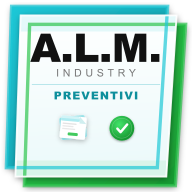
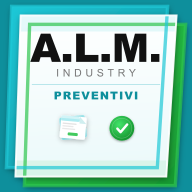
feat: fix icona PWA Android + offline data sync
- Aggiunto sfondo solido (#0E8F9C) all'icona SVG per compatibilità con
  Android adaptive icon (eliminata trasparenza che causava icona generica)
- Script scripts/generate-icons.mjs per rigenerare icon-192.png e icon-512.png
- Manifest aggiornato con entry 'any' per icon-512.png (era solo 'maskable')
- Dexie IndexedDB (lib/db.ts): tabelle clienti, listiniData, pendingPreventivi
- DataSync: sincronizza clienti/listini in IDB all'avvio; flush pending al ritorno online
- OfflineIndicator: badge Offline/Sincronizzazione in top bar mobile
- WizardPreventivo: salva in IDB se offline invece di fallire
- TabellaPreventivi: mostra preventivi pending con badge 'In attesa di sync'

Changed region(s): [[0.0, 0.0, 1.0, 1.0]]

diff --git a/components/preventivi/TabellaPreventivi.tsx b/components/preventivi/TabellaPreventivi.tsx
@@ -4,9 +4,11 @@ import { useState, useMemo } from 'react'
 import { useRouter } from 'next/navigation'
 import Link from 'next/link'
 import { toast } from 'sonner'
-import { Plus, Search, Trash2, Eye } from 'lucide-react'
+import { Plus, Search, Trash2, Eye, Clock } from 'lucide-react'
+import { useLiveQuery } from 'dexie-react-hooks'
 import { deletePreventivo } from '@/actions/preventivi'
 import { formatEuro } from '@/lib/pricing'
+import { db } from '@/lib/db'
 import { Button } from '@/components/ui/button'
 import { Input } from '@/components/ui/input'
 import { Badge } from '@/components/ui/badge'
@@ -57,6 +59,8 @@ export default function TabellaPreventivi({ preventivi }: Props) {
   const [deletingId, setDeletingId] = useState<string | null>(null)
   const [deleting, setDeleting] = useState(false)
 
+  const pendingPreventivi = useLiveQuery(() => db.pendingPreventivi.toArray(), []) ?? []
+
   const filtered = useMemo(() => {
     const q = search.toLowerCase().trim()
     if (!q) return preventivi
@@ -105,7 +109,7 @@ export default function TabellaPreventivi({ preventivi }: Props) {
       </div>
 
       {/* Empty state */}
-      {filtered.length === 0 && (
+      {filtered.length === 0 && pendingPreventivi.length === 0 && (
         <div className="text-center py-16 text-gray-400">
           {preventivi.length === 0 ? (
             <>
@@ -125,7 +129,7 @@ export default function TabellaPreventivi({ preventivi }: Props) {
       )}
 
       {/* Table */}
-      {filtered.length > 0 && (
+      {(filtered.length > 0 || pendingPreventivi.length > 0) && (
         <div className="rounded-md border bg-white overflow-x-auto">
           <Table>
             <TableHeader>
@@ -140,6 +144,43 @@ export default function TabellaPreventivi({ preventivi }: Props) {
               </TableRow>
             </TableHeader>
             <TableBody>
+              {/* Preventivi in attesa di sync (offline) */}
+              {pendingPreventivi.map((p) => {
+                const s = p.input.clienteSnapshot
+                const nome = [s.cognome, s.nome].filter(Boolean).join(' ') || s.telefono || s.email || '—'
+                const totPezzi = p.input.articoli.reduce((sum, a) => sum + a.quantita, 0)
+                return (
+                  <TableRow key={`pending-${p.tempId}`} className="bg-amber-50">
+                    <TableCell className="font-mono text-sm text-gray-500">
+                      {p.input.numero || '—'}
+                    </TableCell>
+                    <TableCell>
+                      <div>
+                        <p className="font-medium text-sm">{nome}</p>
+                        {s.cantiere && (
+                          <p className="text-xs text-gray-400">{s.cantiere}</p>
+                        )}
+                      </div>
+                    </TableCell>
+                    <TableCell className="text-center text-sm text-gray-600">
+                      {totPezzi}
+                    </TableCell>
+                    <TableCell className="text-right font-semibold text-sm text-gray-400">
+                      —
+                    </TableCell>
+                    <TableCell className="text-center">
+                      <Badge className="text-xs bg-amber-100 text-amber-700 border border-amber-200 hover:bg-amber-100">
+                        <Clock className="h-3 w-3 mr-1" />
+                        In attesa di sync
+                      </Badge>
+                    </TableCell>
+                    <TableCell className="text-right text-xs text-gray-400 whitespace-nowrap">
+                      {new Date(p.createdAt).toLocaleDateString('it-IT')}
+                    </TableCell>
+                    <TableCell />
+                  </TableRow>
+                )
+              })}
               {filtered.map((p) => {
                 const cfg = STATO_CONFIG[p.stato]
                 return (

diff --git a/components/pwa/DataSync.tsx b/components/pwa/DataSync.tsx
@@ -1,0 +1,59 @@
+'use client'
+
+import { useEffect } from 'react'
+import { toast } from 'sonner'
+import { db } from '@/lib/db'
+import { getClienti } from '@/actions/clienti'
+import { getCategorie } from '@/actions/listini'
+import { createPreventivo } from '@/actions/preventivi'
+
+export default function DataSync() {
+  // Sync clienti e listini all'avvio (se online)
+  useEffect(() => {
+    if (!navigator.onLine) return
+
+    async function syncData() {
+      try {
+        const [clienti, categorie] = await Promise.all([getClienti(), getCategorie()])
+        await db.clienti.bulkPut(clienti)
+        await db.listiniData.bulkPut(categorie)
+      } catch {
+        // Silenzioso: il sync dei dati di riferimento è best-effort
+      }
+    }
+
+    syncData()
+  }, [])
+
+  // Svuota la coda dei preventivi pending al ritorno online
+  useEffect(() => {
+    async function flushPending() {
+      const pending = await db.pendingPreventivi.toArray()
+      if (pending.length === 0) return
+
+      let synced = 0
+      for (const item of pending) {
+        try {
+          await createPreventivo(item.input)
+          await db.pendingPreventivi.delete(item.tempId!)
+          synced++
+        } catch {
+          // Lascia in coda, riproverà al prossimo evento online
+        }
+      }
+
+      if (synced > 0) {
+        toast.success(
+          synced === 1
+            ? '1 preventivo sincronizzato'
+            : `${synced} preventivi sincronizzati`
+        )
+      }
+    }
+
+    window.addEventListener('online', flushPending)
+    return () => window.removeEventListener('online', flushPending)
+  }, [])
+
+  return null
+}

diff --git a/components/preventivi/WizardPreventivo.tsx b/components/preventivi/WizardPreventivo.tsx
@@ -5,6 +5,8 @@ import { useRouter } from 'next/navigation'
 import { toast } from 'sonner'
 import { ChevronLeft, ChevronRight, Save, Loader2 } from 'lucide-react'
 import { createPreventivo, updatePreventivo } from '@/actions/preventivi'
+import { db } from '@/lib/db'
+import type { PendingPreventivo } from '@/lib/db'
 import {
   calcolaSubtotale,
   calcolaSpeseTrasportoPezzi,
@@ -155,15 +157,26 @@ export default function WizardPreventivo({ clienti, listini, aliquote, preventiv
           note,
         }
 
+        // Modalità modifica: richiede connessione
         if (preventivo) {
           await updatePreventivo(preventivo.id, input)
           toast.success('Preventivo aggiornato')
           router.push(`/preventivi/${preventivo.id}`)
-        } else {
-          const { id } = await createPreventivo(input)
-          toast.success('Preventivo creato')
-          router.push(`/preventivi/${id}`)
+          return
         }
+
+        // Nuovo preventivo: salva localmente se offline
+        if (!navigator.onLine) {
+          const pending: PendingPreventivo = { input, createdAt: new Date().toISOString() }
+          await db.pendingPreventivi.add(pending)
+          toast.success('Preventivo salvato localmente — verrà sincronizzato quando torni online')
+          router.push('/preventivi')
+          return
+        }
+
+        const { id } = await createPreventivo(input)
+        toast.success('Preventivo creato')
+        router.push(`/preventivi/${id}`)
       } catch (e: unknown) {
         toast.error(e instanceof Error ? e.message : 'Errore durante il salvataggio')
       }

diff --git a/components/pwa/OfflineIndicator.tsx b/components/pwa/OfflineIndicator.tsx
@@ -1,0 +1,30 @@
+'use client'
+
+import { useLiveQuery } from 'dexie-react-hooks'
+import { useOnlineStatus } from '@/hooks/useOnlineStatus'
+import { db } from '@/lib/db'
+
+export default function OfflineIndicator() {
+  const { isOnline } = useOnlineStatus()
+  const pendingCount = useLiveQuery(() => db.pendingPreventivi.count(), []) ?? 0
+
+  if (!isOnline) {
+    return (
+      <span className="inline-flex items-center gap-1 px-2 py-0.5 rounded-full text-xs font-semibold bg-red-100 text-red-700 border border-red-200">
+        <span className="h-1.5 w-1.5 rounded-full bg-red-500" />
+        Offline
+      </span>
+    )
+  }
+
+  if (pendingCount > 0) {
+    return (
+      <span className="inline-flex items-center gap-1 px-2 py-0.5 rounded-full text-xs font-semibold bg-amber-100 text-amber-700 border border-amber-200">
+        <span className="h-1.5 w-1.5 rounded-full bg-amber-500 animate-pulse" />
+        Sincronizzazione…
+      </span>
+    )
+  }
+
+  return null
+}

diff --git a/components/layout/LayoutShell.tsx b/components/layout/LayoutShell.tsx
@@ -4,6 +4,8 @@ import { useState, useEffect } from 'react'
 import { usePathname } from 'next/navigation'
 import { Menu } from 'lucide-react'
 import Sidebar from './Sidebar'
+import DataSync from '@/components/pwa/DataSync'
+import OfflineIndicator from '@/components/pwa/OfflineIndicator'
 
 interface Props {
   children: React.ReactNode
@@ -52,10 +54,12 @@ export default function LayoutShell({ children, logoUrl, denominazione }: Props)
           >
             <Menu className="h-5 w-5" />
           </button>
-          <span className="text-sm font-semibold text-gray-900 truncate">
+          <span className="text-sm font-semibold text-gray-900 truncate flex-1">
             {denominazione || 'A.L.M. Infissi'}
           </span>
+          <OfflineIndicator />
         </header>
+        <DataSync />
 
         <main className="flex-1 overflow-auto">
           <div className="p-4 lg:p-6">

diff --git a/lib/db.ts b/lib/db.ts
@@ -1,0 +1,27 @@
+import Dexie, { type EntityTable } from 'dexie'
+import type { Cliente } from '@/types/cliente'
+import type { CategoriaConListini } from '@/types/listino'
+import type { PreventivoInput } from '@/types/preventivo'
+
+export interface PendingPreventivo {
+  tempId?: number
+  input: PreventivoInput
+  createdAt: string
+}
+
+class GestionaleDB extends Dexie {
+  clienti!: EntityTable<Cliente, 'id'>
+  listiniData!: EntityTable<CategoriaConListini, 'id'>
+  pendingPreventivi!: EntityTable<PendingPreventivo, 'tempId'>
+
+  constructor() {
+    super('gestionale-infissi')
+    this.version(1).stores({
+      clienti: 'id, cognome, nome',
+      listiniData: 'id, nome',
+      pendingPreventivi: '++tempId, createdAt',
+    })
+  }
+}
+
+export const db = new GestionaleDB()

diff --git a/hooks/useOnlineStatus.ts b/hooks/useOnlineStatus.ts
@@ -1,0 +1,24 @@
+'use client'
+
+import { useState, useEffect } from 'react'
+
+export function useOnlineStatus(): { isOnline: boolean } {
+  const [isOnline, setIsOnline] = useState(
+    typeof navigator !== 'undefined' ? navigator.onLine : true
+  )
+
+  useEffect(() => {
+    const onOnline = () => setIsOnline(true)
+    const onOffline = () => setIsOnline(false)
+
+    window.addEventListener('online', onOnline)
+    window.addEventListener('offline', onOffline)
+
+    return () => {
+      window.removeEventListener('online', onOnline)
+      window.removeEventListener('offline', onOffline)
+    }
+  }, [])
+
+  return { isOnline }
+}

diff --git a/app/manifest.ts b/app/manifest.ts
@@ -29,6 +29,12 @@ export default function manifest(): MetadataRoute.Manifest {
         src: '/icon-512.png',
         sizes: '512x512',
         type: 'image/png',
+        purpose: 'any',
+      },
+      {
+        src: '/icon-512.png',
+        sizes: '512x512',
+        type: 'image/png',
         purpose: 'maskable',
       },
     ],
